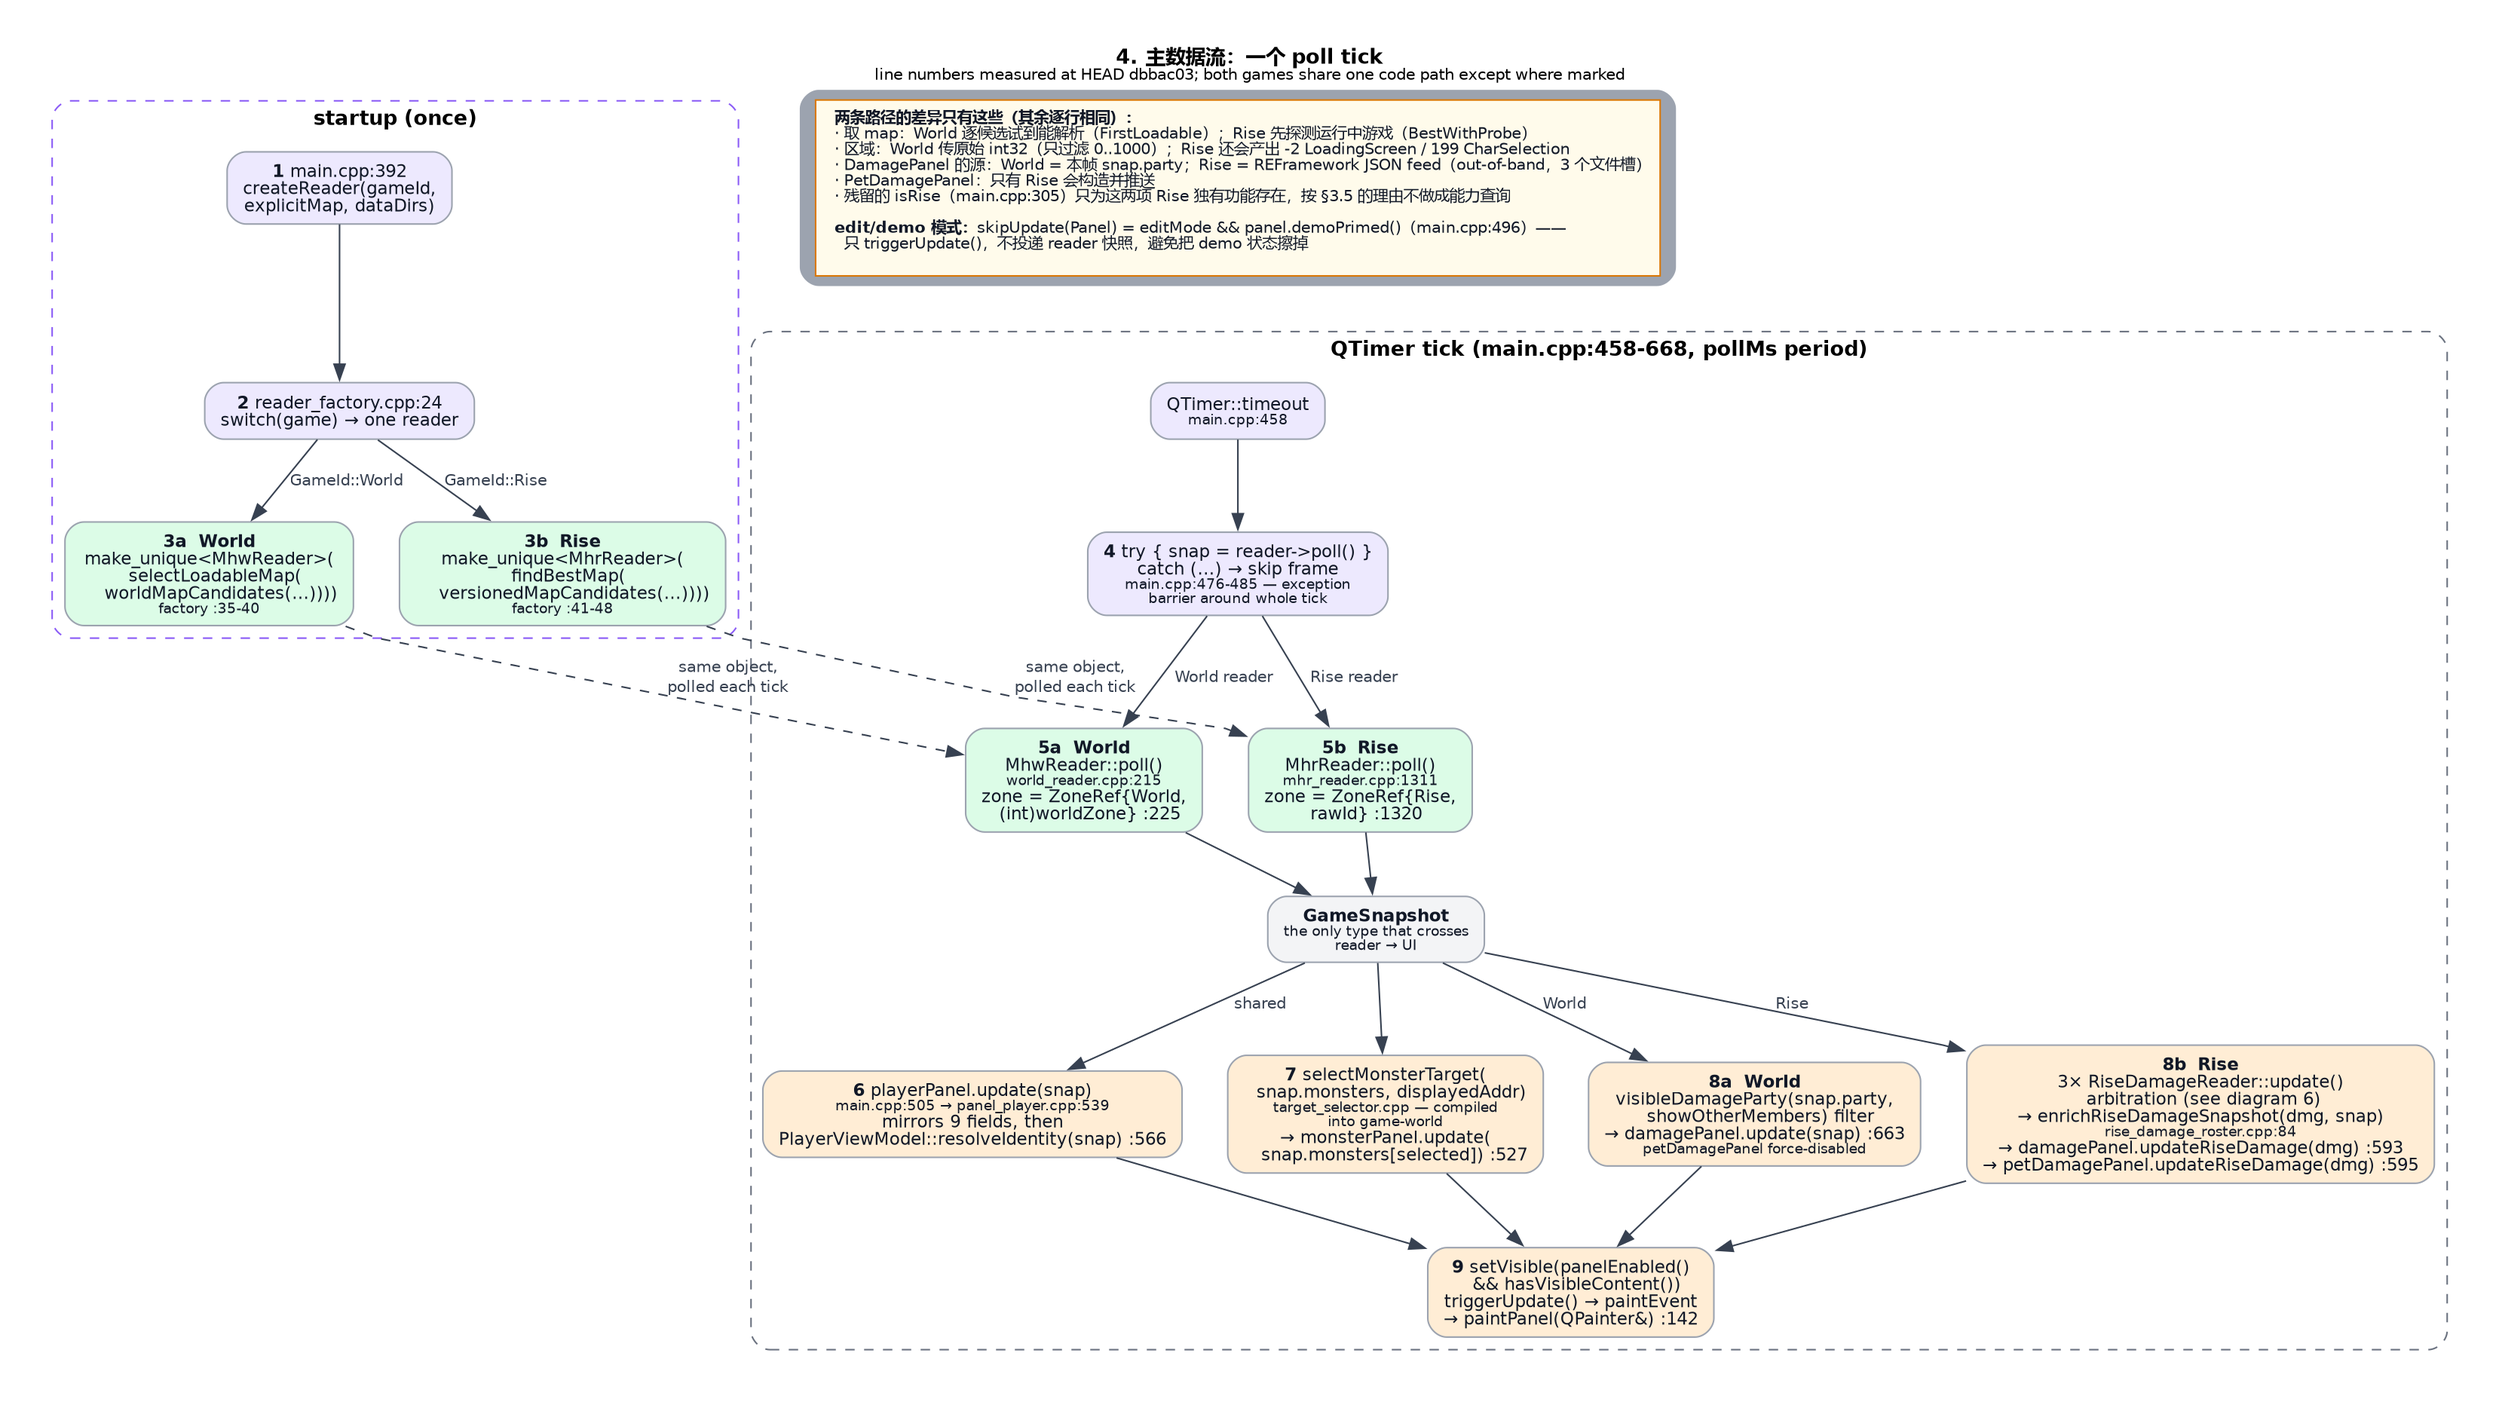
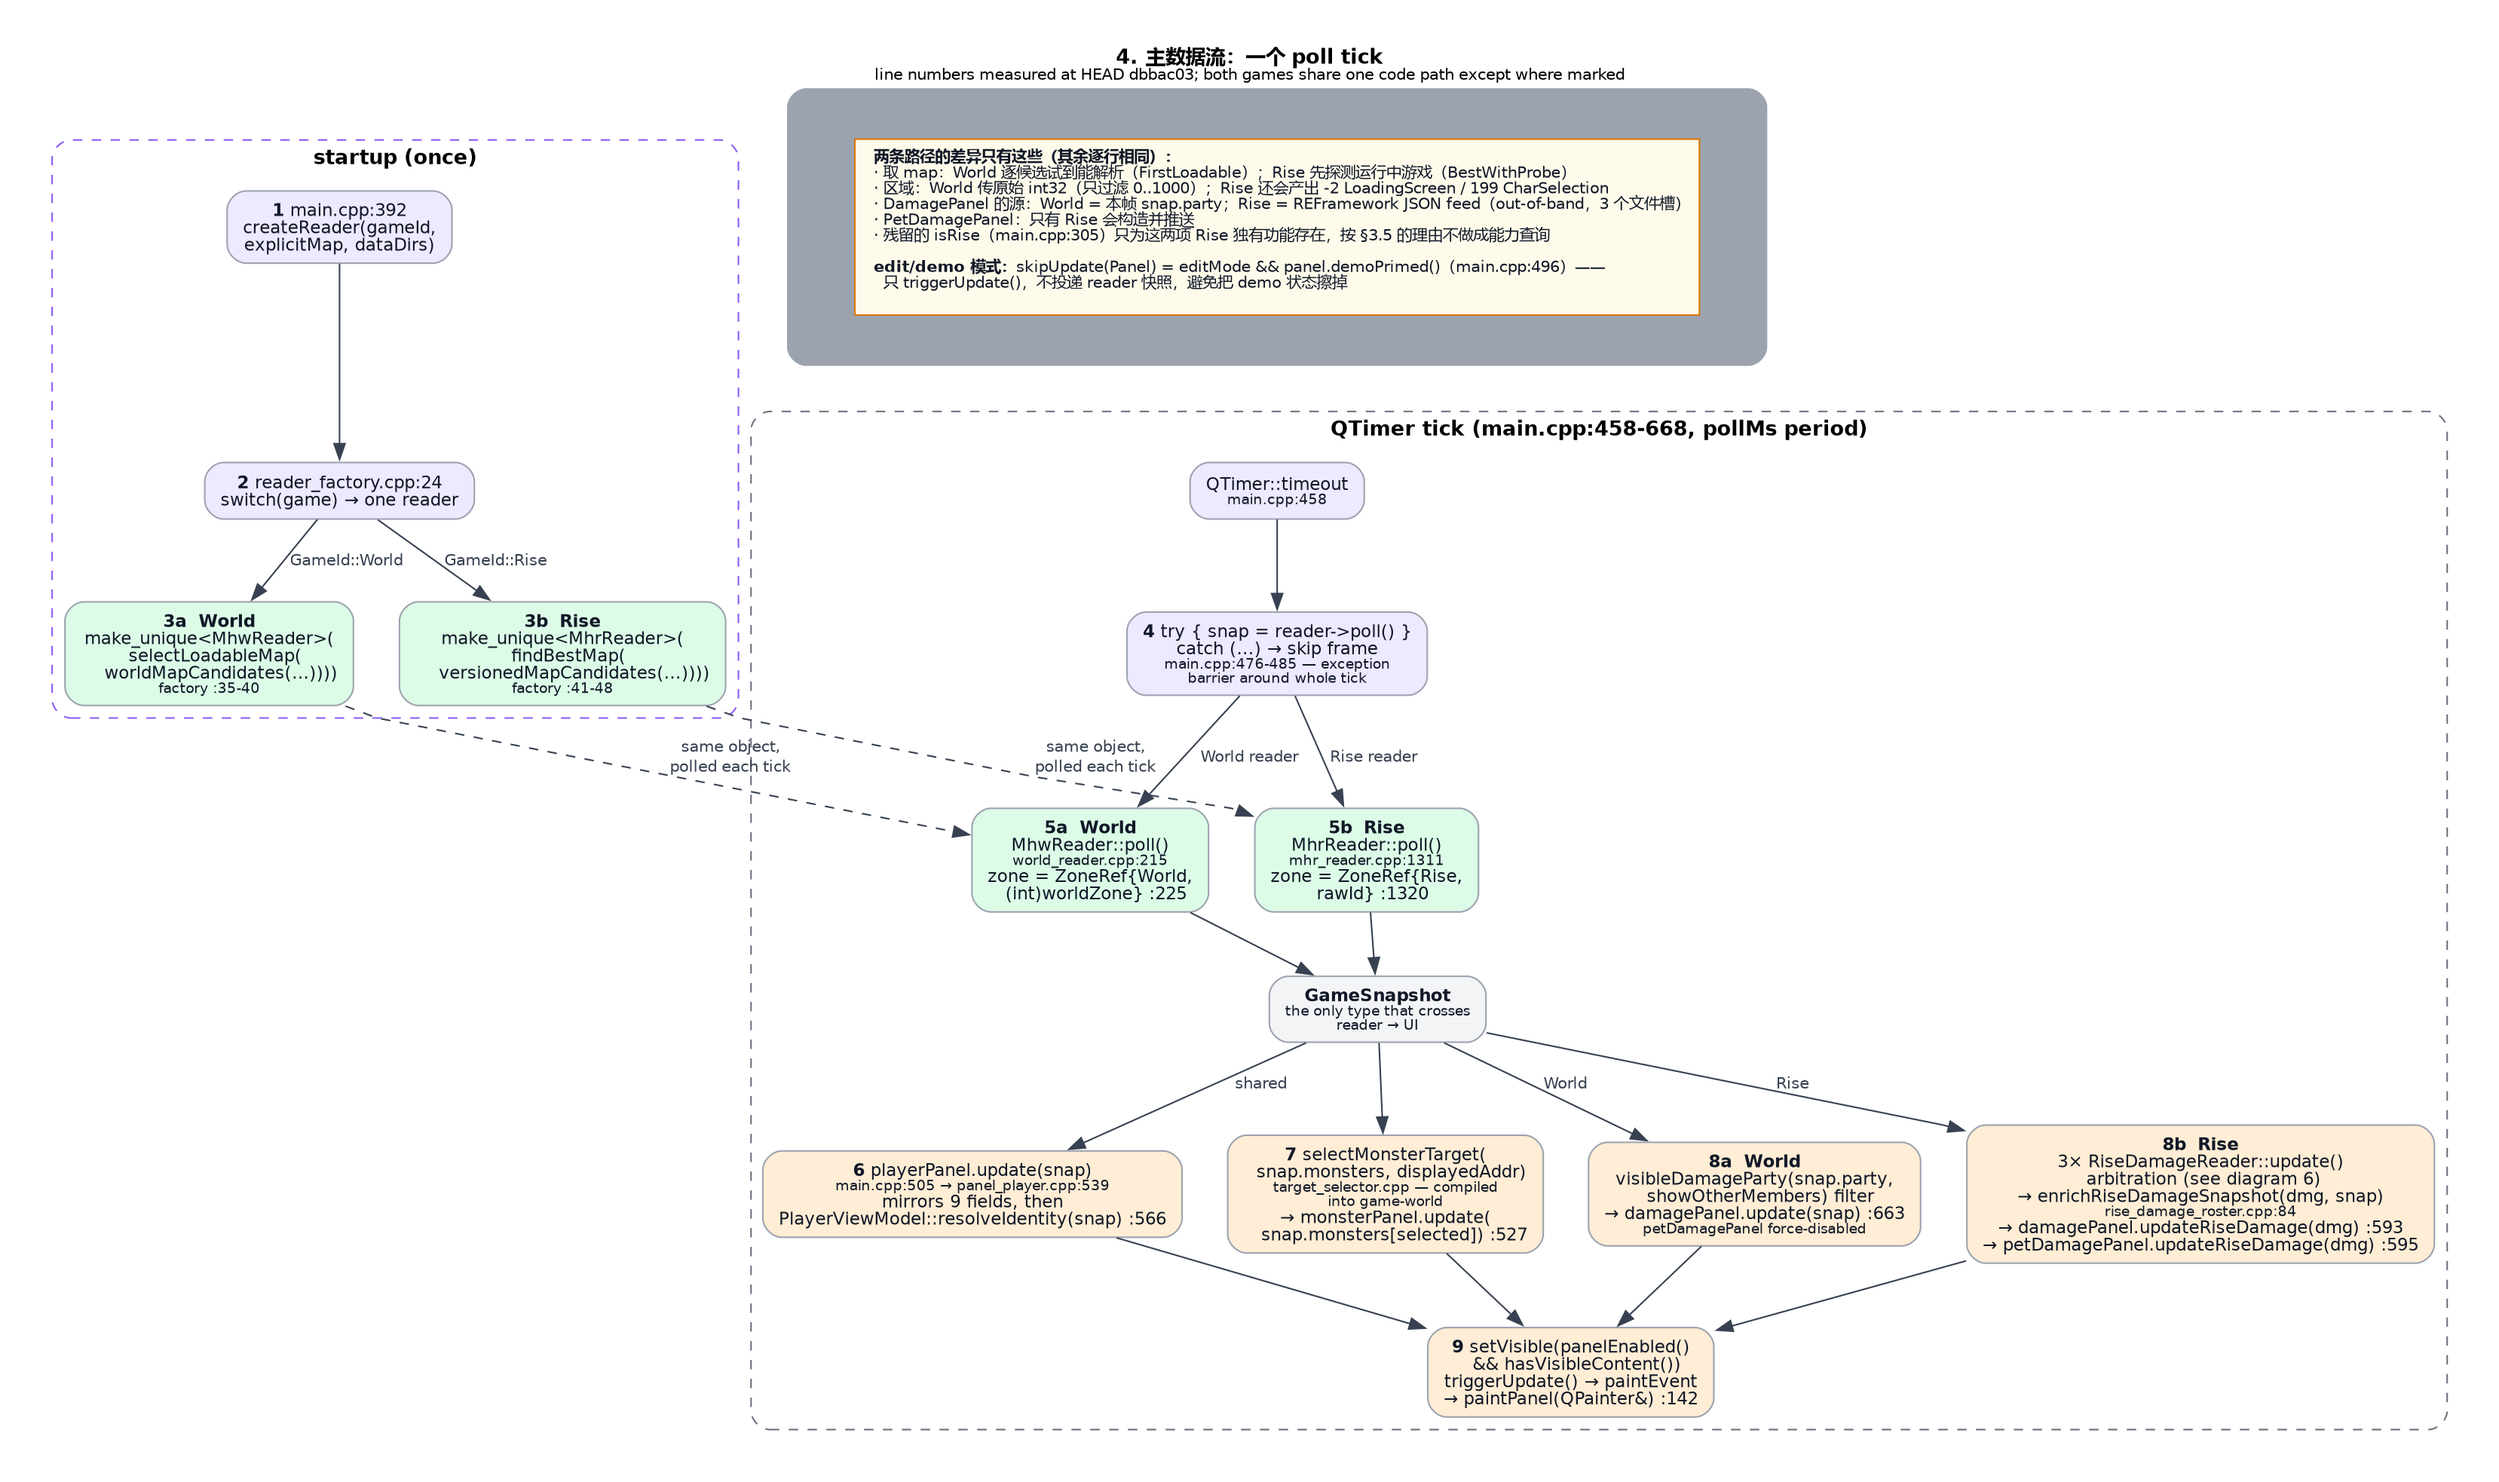
docs(uml): stop the data-flow note from overlapping the title
04-dataflow's "what differs between the two paths" box collided with the
figure title and the tick cluster. The dot source was not wrong — the note
was a plaintext node on the main flow with a default margin, so Graphviz
laid it out where the other nodes went and squeezed the label.

rank=sink plus a margin pulls it out of the flow chain and gives it room.
Verified by rendering, not by inspection: I looked at the result, then
checked that the other five diagrams regenerate byte-identical, so the
change is confined to the one box.

Nothing about the diagram's content moved — the same five differences
between the World and Rise paths, the same edit/demo note, the same
file:line on every box.

diff --git a/docs/uml/make_diagrams.py b/docs/uml/make_diagrams.py
@@ -487,7 +487,7 @@ SEQUENCE = r'''
   s3w -> t2w [style=dashed, label="same object,\npolled each tick"];
   s3r -> t2r [style=dashed, label="same object,\npolled each tick"];
 
-  note [shape=plaintext, label=<<TABLE BORDER="1" CELLBORDER="0" CELLSPACING="0" CELLPADDING="5" COLOR="#D97706" BGCOLOR="#FFFBEB"><TR><TD ALIGN="LEFT" BALIGN="LEFT"><FONT POINT-SIZE="10">
+  note [shape=plaintext, rank=sink, margin="0.6,0.45", label=<<TABLE BORDER="1" CELLBORDER="0" CELLSPACING="0" CELLPADDING="5" COLOR="#D97706" BGCOLOR="#FFFBEB"><TR><TD ALIGN="LEFT" BALIGN="LEFT"><FONT POINT-SIZE="10">
   <B>两条路径的差异只有这些（其余逐行相同）：</B><BR ALIGN="LEFT"/>
   · 取 map：World 逐候选试到能解析（FirstLoadable）；Rise 先探测运行中游戏（BestWithProbe）<BR ALIGN="LEFT"/>
   · 区域：World 传原始 int32（只过滤 0..1000）；Rise 还会产出 -2 LoadingScreen / 199 CharSelection<BR ALIGN="LEFT"/>
